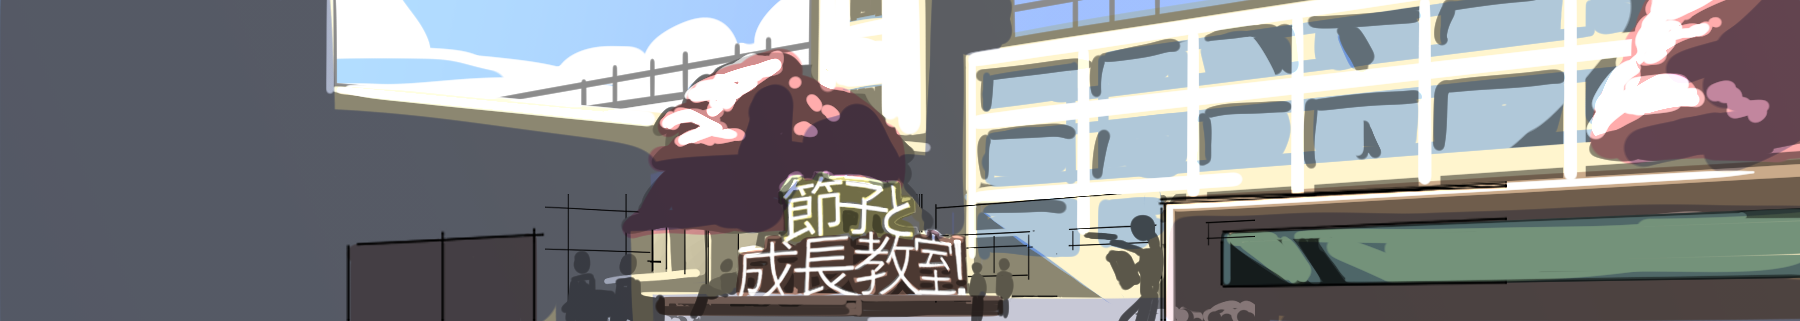
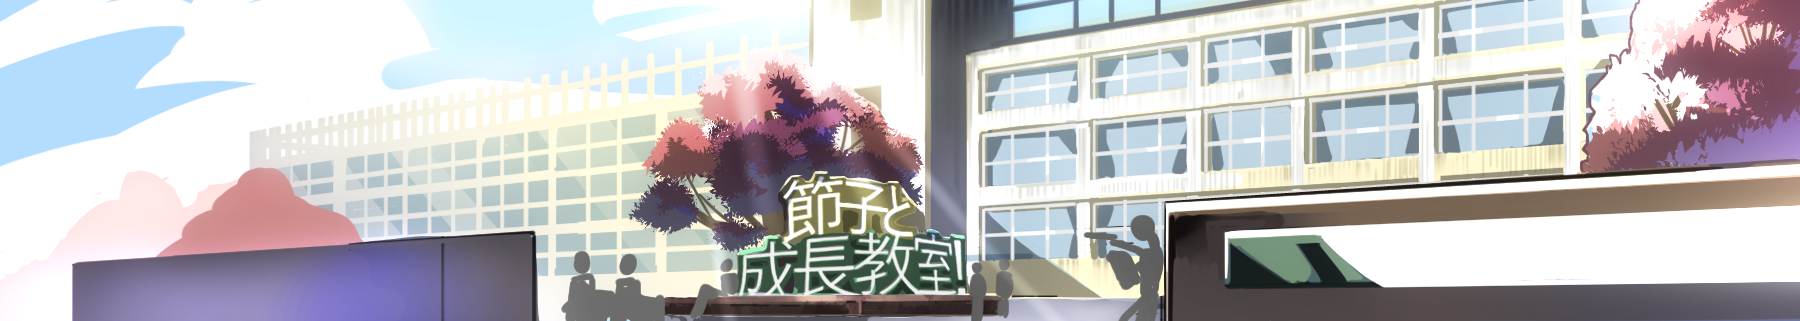
トップページ画像修正 トップページレイアウト修正 コンテンツ関数化

diff --git a/wp/wp-content/themes/arkhe/dist/css/style.css b/wp/wp-content/themes/arkhe/dist/css/style.css
@@ -169,6 +169,27 @@ tr[class*="table-data"]{
     font-size: 30px;;
 }
 
+.top-image-area{
+    display: flex;
+}
+
+.top-image{
+    width: 100%;
+}
+
+/*コンテンツ表示系共通*/
+.date-time{
+    font-size: small;
+    text-align: end;
+    margin: 3px 5px;
+}
+
+.content-title{
+    font-size: 17px;
+    color: #0869c3;
+    font-weight: bold;
+}
+
 /*お知らせ*/
 
 .top-content-area-back{
@@ -237,4 +258,6 @@ img[class*="magnet-"]{
 
 #lesson img{
     border-radius: 10px 10px 0px 0px;
+    height: 160px;
+    object-fit:cover;
 }

diff --git a/wp/wp-content/themes/arkhe/template-parts/view/contentView.php b/wp/wp-content/themes/arkhe/template-parts/view/contentView.php
@@ -1,0 +1,77 @@
+<?php
+
+/**
+ * 記事の表示形式を設定
+ * 
+ * 
+ */
+function contentView(string $mode, $my_query){
+    switch($mode){
+        case 'notice':
+            $magnum = 0;
+            while ( $my_query->have_posts() ) : $my_query->the_post(); ?>
+                <div class="top-content" id="notices">
+                    <?php 
+                    //画像表示
+                    if ( has_post_thumbnail() ) : ?>
+                        <a href="<?php the_permalink(); ?>" class="notice-link">
+                            <!-- マグネット表示 -->
+                            <div class="magnet-area">
+                                <?php
+                                echo '<img class="magnet-'. $magnum .'" src="'. get_stylesheet_directory_uri() .'/assets/img/magnet_'.$magnum.'.png'.'" />';
+                                $magnum++;
+                                echo '<img class="magnet-'. $magnum .'" src="'. get_stylesheet_directory_uri() .'/assets/img/magnet_'.$magnum.'.png'.'" />';
+                                $magnum++;
+                                the_post_thumbnail( 'thumbnail' ); 
+                                ?>
+                            </div>
+                        </a>
+                    <?php 
+                    endif; ?>
+                    <?php 
+                    //お知らせタイトル ?>
+                    <a class="content-title" href="<?php the_permalink(); ?>">
+                        <?php the_title(); ?>
+                    </a>
+                    <?php
+                    //投稿時間 ?>
+                    <p class="date-time">
+                        <?php the_time( get_option( 'date_format' ) ); ?>
+                    </p>
+                </div>
+            <?php endwhile;
+            break;
+        case 'nomal':
+            while ( $my_query->have_posts() ) : $my_query->the_post(); ?>
+                <div class="top-content" id="lesson">
+                    <?php 
+                    //画像表示
+                    if ( has_post_thumbnail() ) : ?>
+                        <a href="<?php the_permalink(); ?>">
+                            <!-- マグネット表示 -->
+                            <div class="magnet-area">
+                                <?php
+                                the_post_thumbnail( 'thumbnail' ); 
+                                ?>
+                            </div>
+                        </a>
+                    <?php 
+                    endif; ?>
+                    <?php 
+                    //お知らせタイトル ?>
+                    <a class="content-title" href="<?php the_permalink(); ?>">
+                        <?php the_title(); ?>
+                    </a>
+                    <?php
+                    //投稿時間 ?>
+                    <p class="date-time">
+                        <?php the_time( get_option( 'date_format' ) ); ?>
+                    </p>
+                </div>
+            <?php endwhile; ?>
+
+            <?php wp_reset_postdata();
+            break;
+    } 
+}
+?>

diff --git a/wp/wp-content/themes/arkhe/front-page.php b/wp/wp-content/themes/arkhe/front-page.php
@@ -2,7 +2,9 @@
 /**
  * フロントページテンプレート
  */
-get_header(); ?>
+get_header(); 
+require_once get_template_directory() . '/template-parts/view/contentView.php';
+?>
 
 <main <?php Arkhe::main_attrs(); ?>>
 	<div <?php Arkhe::main_body_attrs(); ?>>
@@ -26,6 +28,9 @@ get_header(); ?>
 		?>
 
 		<!-- お知らせ表示 -->
+		<div class="top-image-area">
+			<img class="top-image" src="<?= get_stylesheet_directory_uri() .'/assets/img/kousya.png'?>" alt="">
+		</diV>
 		<div class="top-content-area-back">
 			<h2 class="top-h2">お知らせ一覧</h2>
 			<div class="top-content-area">
@@ -36,44 +41,9 @@ get_header(); ?>
 				);
 
 				$my_query = new WP_Query( $args );
-				?>
 
-				<?php 
-				//マグネット番号用変数
-				$magnum = 0;
-				while ( $my_query->have_posts() ) : $my_query->the_post(); ?>
-					<div class="top-content" id="notices">
-						<?php 
-						//画像表示
-						if ( has_post_thumbnail() ) : ?>
-							<a href="<?php the_permalink(); ?>" class="notice-link">
-								<!-- マグネット表示 -->
-								<div class="magnet-area">
-									<?php
-									echo '<img class="magnet-'. $magnum .'" src="'. get_stylesheet_directory_uri() .'/assets/img/magnet_'.$magnum.'.png'.'" />';
-									$magnum++;
-									echo '<img class="magnet-'. $magnum .'" src="'. get_stylesheet_directory_uri() .'/assets/img/magnet_'.$magnum.'.png'.'" />';
-									$magnum++;
-									the_post_thumbnail( 'thumbnail' ); 
-									?>
-								</div>
-							</a>
-						<?php 
-						endif; ?>
-						<?php 
-						//お知らせタイトル ?>
-						<a href="<?php the_permalink(); ?>">
-							<?php the_title(); ?>
-						</a>
-						<?php
-						//投稿時間 ?>
-						<p>
-							<?php the_time( get_option( 'date_format' ) ); ?>
-						</p>
-					</div>
-				<?php endwhile; ?>
-
-				<?php wp_reset_postdata(); ?>
+				//コンテンツの表示
+				contentView('notice', $my_query); ?>
 			</div>
 		</div>
 	
@@ -89,40 +59,10 @@ get_header(); ?>
 				);
 
 				$my_query = new WP_Query( $args );
+				//コンテンツの表示
+				contentView('nomal', $my_query);
 				?>
-
-				<?php 
-				//マグネット番号用変数
-				$magnum = 0;
-				while ( $my_query->have_posts() ) : $my_query->the_post(); ?>
-					<div class="top-content" id="lesson">
-						<?php 
-						//画像表示
-						if ( has_post_thumbnail() ) : ?>
-							<a href="<?php the_permalink(); ?>">
-								<!-- マグネット表示 -->
-								<div class="magnet-area">
-									<?php
-									the_post_thumbnail( 'thumbnail' ); 
-									?>
-								</div>
-							</a>
-						<?php 
-						endif; ?>
-						<?php 
-						//お知らせタイトル ?>
-						<a href="<?php the_permalink(); ?>">
-							<?php the_title(); ?>
-						</a>
-						<?php
-						//投稿時間 ?>
-						<p>
-							<?php the_time( get_option( 'date_format' ) ); ?>
-						</p>
-					</div>
-				<?php endwhile; ?>
-
-				<?php wp_reset_postdata(); ?>
+				
 			</div>
 		</div>
 		

diff --git a/wp/wp-content/themes/arkhe/functions.php b/wp/wp-content/themes/arkhe/functions.php
@@ -114,7 +114,6 @@ class Arkhe extends \Arkhe_Theme\Data {
 	}
 }
 
-
 /**
  * Start!
  */
